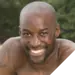
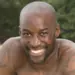
Change photos to jpg for reduced filesize and reverted to full versions of pngs

Changed region(s): [[0.6667, 0.6667, 1.0, 1.0]]

diff --git a/season31/templates/season31/castaways.html b/season31/templates/season31/castaways.html
@@ -85,7 +85,7 @@
 	{% for castaway in castaways %}
 	<tr>
 		<td class="columnheader fgwhite textright{% if castaway.out_episode_number > 0 %} textstrike{% endif %}"><a href="{% url 'season31:castaway' castaway.id %}" class="fgwhite">{{ castaway }}</a></td>
-		<td class="{% if castaway.out_episode_number > 0 %}bgblack{% else %}bgtribe{{ pick.castaway_episode.tribe.color }}{% endif %} fgwhite textright pad0"><img src="{% static 'season31/images/photos/'%}{{ castaway.name }}.png" title="{{ castaway.name }}" class="castawayimgsmall{% if castaway.out_episode_number > 0 %} outimg{% endif %}" /></td>
+		<td class="fgwhite textright pad0"><img src="{% static 'season31/images/photos/'%}{{ castaway.name }}.jpg" title="{{ castaway.name }}" class="castawayimgsmall{% if castaway.out_episode_number > 0 %} outimg{% endif %}" /></td>
 		<td>{{ castaway.age }}</td>
 		<td>{{ castaway.occupation }}</td>
 		{% for ce in castaway.castawayepisode_set.all %}

diff --git a/season31/templates/season31/castaway.html b/season31/templates/season31/castaway.html
@@ -9,8 +9,8 @@
 </div>
 <div class="content floatleft marg0">
 
-<div class="floatleft pad0{% if castaway.out_episode_number > 0 %} bgblack{% else %} bgtribe{{ castaway.get_tribe.color }}{% endif %}">
-	<img src="{% static 'season31/images/photos/'%}{{ castaway.name }}.png" title="{{ castaway.name }}" class="border{% if castaway.out_episode_number > 0 %} outimg{% endif %}" />
+<div class="floatleft pad0">
+	<img src="{% static 'season31/images/photos/'%}{{ castaway.name }}.jpg" title="{{ castaway.name }}" class="border{% if castaway.out_episode_number > 0 %} outimg{% endif %}" />
 </div>
 <div>
 	<span class="title">{{ castaway.full_name }}</span>
